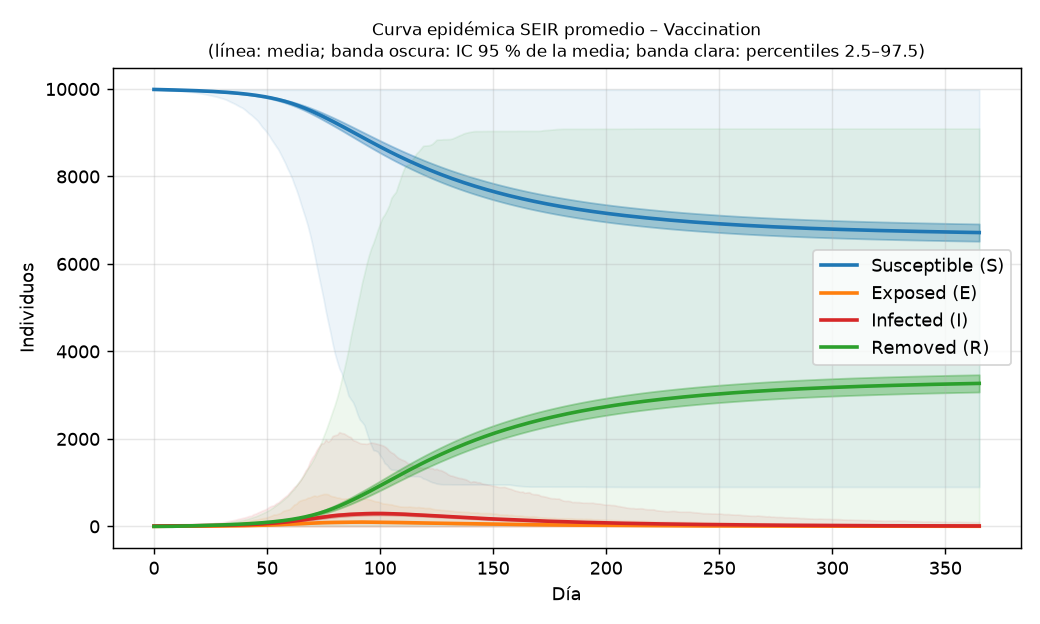
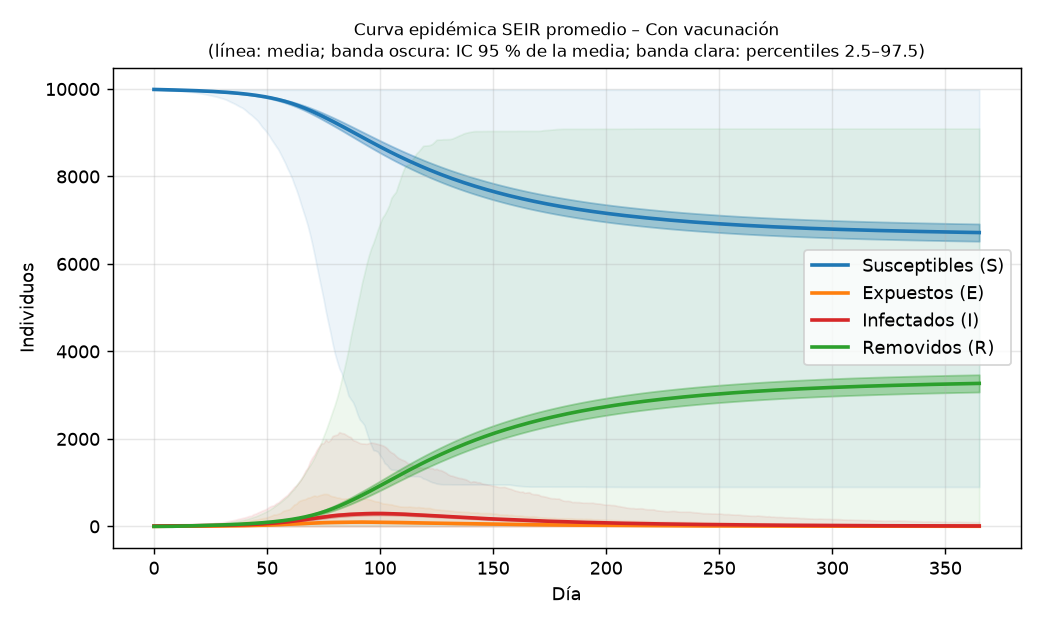
feat(punto4): Implement punto3 tests into punto4 validation_generator, and fix memoria_pico data in windows

Changed region(s): [[0.8308, 0.3958, 0.9538, 0.5785], [0.3385, 0.0304, 0.7385, 0.0609], [0.7692, 0.3958, 0.8, 0.5785]]

diff --git a/punto4_episim/analisis_episim.py b/punto4_episim/analisis_episim.py
@@ -1,11 +1,4 @@
 import os
-import sys
-
-BASE = os.path.dirname(os.path.abspath(__file__))
-if __package__ in (None, ""):
-    script_dir = os.path.abspath(sys.path[0])
-    if script_dir == BASE:
-        sys.path.pop(0)
 
 import matplotlib
 matplotlib.use("Agg")
@@ -13,16 +6,18 @@ import matplotlib.pyplot as plt
 import numpy as np
 import pandas as pd
 
+BASE = os.path.dirname(os.path.abspath(__file__))
 RES = os.path.join(BASE, "resultados")
 GRA = os.path.join(BASE, "graficos")
 os.makedirs(GRA, exist_ok=True)
 
-ROT = {"sin_vacunacion": "No vaccination", "con_vacunacion": "Vaccination",
-    "sin_vacunacion_homogenea": "No vaccination (homogeneous mixing)",
-    "con_vacunacion_homogenea": "Vaccination (homogeneous mixing)"}
+N = 10000
+ROT = {"sin_vacunacion": "Sin vacunación", "con_vacunacion": "Con vacunación",
+    "sin_vacunacion_homogenea": "Sin vacunación (mezcla homogénea)",
+    "con_vacunacion_homogenea": "Con vacunación (mezcla homogénea)"}
 COL = {"S": "#1f77b4", "E": "#ff7f0e", "I": "#d62728", "R": "#2ca02c"}
-NOM = {"S": "Susceptible (S)", "E": "Exposed (E)", "I": "Infected (I)",
-    "R": "Removed (R)"}
+NOM = {"S": "Susceptibles (S)", "E": "Expuestos (E)", "I": "Infectados (I)",
+    "R": "Removidos (R)"}
 plt.rcParams.update({"font.size": 10, "axes.grid": True, "grid.alpha": 0.3,
                      "figure.dpi": 130})
 
@@ -31,16 +26,6 @@ def load_data(nombre):
     resumen = pd.read_csv(os.path.join(RES, f"{nombre}_resumen.csv"))
     series = pd.read_csv(os.path.join(RES, f"{nombre}_series.csv"))
     return resumen, series
-
-
-def population_size(resumen):
-    """Obtiene la población de los resultados, sin depender de la configuración."""
-    tasa_ataque = pd.to_numeric(resumen["tasa_ataque"], errors="coerce")
-    total_infectados = pd.to_numeric(resumen["total_infectados"], errors="coerce")
-    poblaciones = (total_infectados / tasa_ataque).replace([np.inf, -np.inf], np.nan).dropna()
-    if poblaciones.empty:
-        raise ValueError("No se pudo inferir la población desde los resultados.")
-    return int(round(poblaciones.median()))
 
 
 def confidence_bands(series, col):
@@ -88,7 +73,7 @@ def plot_histograms():
             if datos.std() == 0:   # distribucion degenerada (p. ej. 100 % de la poblacion infectada)
                 axs[fila, j].bar([datos.iloc[0]], [len(datos)], width=1, color="#4c72b0")
                 axs[fila, j].set_xlim(datos.iloc[0] - 5, datos.iloc[0] + 5)
-                axs[fila, j].text(0.5, 0.5, f"valor constante\nen las {len(datos):,} réplicas",
+                axs[fila, j].text(0.5, 0.5, "valor constante\nen las 1.000 réplicas",
                                   transform=axs[fila, j].transAxes, ha="center", fontsize=8)
             else:
                 axs[fila, j].hist(datos, bins=30, color="#4c72b0", edgecolor="white")
@@ -127,7 +112,6 @@ def plot_comparison():
 def plot_tornado():
     s = pd.read_csv(os.path.join(RES, "sensibilidad.csv"))
     base = s[s["variable"] == "base"].iloc[0]
-    n = population_size(load_data("con_vacunacion")[0])
     etiquetas = {"beta": "β (tasa de contacto)", "probabilidad_transmision": "p (prob. transmisión)",
                  "tasa_vacunacion": "Tasa de vacunación", "efectividad_vacuna": "Efectividad vacuna"}
     filas = []
@@ -136,7 +120,7 @@ def plot_tornado():
         hi = s[(s.variable == v) & (s.nivel == "max")].iloc[0]
         filas.append((et, lo, hi))
     fig, axs = plt.subplots(1, 2, figsize=(13, 4.4))
-    for ax, col, tit, esc in ((axs[0], "media_total_infectados", "Total de infectados (% de N)", 100 / n),
+    for ax, col, tit, esc in ((axs[0], "media_total_infectados", "Total de infectados (% de N)", 100 / N),
                               (axs[1], "media_pico_I", "Pico de infectados activos", 1)):
         filas_o = sorted(filas, key=lambda f: abs(f[2][col] - f[1][col]))
         for k, (et, lo, hi) in enumerate(filas_o):
@@ -157,18 +141,16 @@ def plot_correlations():
     resumen, _ = load_data("con_vacunacion")
     cols = ["beta", "p", "tasa_vacunacion", "efectividad", "letalidad"]
     etq = ["β", "p", "Tasa vacunación", "Efectividad", "Letalidad"]
-    resumen = resumen.apply(pd.to_numeric, errors="coerce")
     fig, axs = plt.subplots(1, 2, figsize=(11, 4))
     tablas = {}
     for ax, out, tit in ((axs[0], "total_infectados", "Total de infectados"),
                          (axs[1], "pico_I", "Pico de infectados")):
-        ranked = resumen[cols + [out]].rank(method="average")
-        rho = [ranked[c].corr(ranked[out]) for c in cols]
+        rho = [resumen[c].rank().corr(resumen[out].rank()) for c in cols]
         tablas[out] = rho
         colores = ["#4c72b0" if r >= 0 else "#c44e52" for r in rho]
         ax.bar(etq, rho, color=colores)
         ax.axhline(0, color="k", lw=0.8)
-        ax.set_ylim(-1, 1); ax.set_title(f"Spearman vs {tit}\n(escenario con vacunación)")
+        ax.set_ylim(-1, 1); ax.set_title(f"Spearman frente a {tit}\n(escenario con vacunación)")
         ax.tick_params(axis="x", rotation=20)
         for i, r in enumerate(rho):
             ax.text(i, r + (0.04 if r >= 0 else -0.09), f"{r:.2f}", ha="center", fontsize=9)
@@ -186,8 +168,7 @@ def plot_homogeneous_comparison():
     for ax, (a, b) in zip(axs, pares):
         for nombre, color in ((a, "#4c72b0"), (b, "#dd8452")):
             resumen, _ = load_data(nombre)
-            n = population_size(resumen)
-            ax.hist(resumen["total_infectados"] / n * 100, bins=30, alpha=0.65,
+            ax.hist(resumen["total_infectados"] / N * 100, bins=30, alpha=0.65,
                     color=color, label=ROT[nombre])
         ax.set_xlabel("Total de infectados (% de la población)")
         ax.set_ylabel("Frecuencia"); ax.legend(fontsize=8)
@@ -213,9 +194,9 @@ def build_statistics_table():
                           "IC95_inf": d.mean() - err, "IC95_sup": d.mean() + err,
                           "min": d.min(), "p25": d.quantile(.25), "mediana": d.median(),
                           "p75": d.quantile(.75), "max": d.max()})
-        brote = (pd.to_numeric(resumen["tasa_ataque"], errors="coerce") >= 0.05).mean() * 100
+        brote = (resumen["tasa_ataque"] >= 0.05).mean() * 100
         sin_control = pd.to_numeric(resumen["dia_control"], errors="coerce").isna().mean() * 100
-        filas.append({"escenario": nombre, "variable": "% réplicas con brote mayor (>=5 % de N)",
+        filas.append({"escenario": nombre, "variable": "% réplicas con brote mayor (≥5 % de N)",
                       "n": n, "media": brote})
         filas.append({"escenario": nombre, "variable": "% réplicas sin control en 365 días",
                       "n": n, "media": sin_control})

diff --git a/punto4_episim/execute_episim.py b/punto4_episim/execute_episim.py
@@ -4,8 +4,10 @@
 # =====================================================================
 import argparse
 import csv
+import ctypes
 import os
 import sys
+import tracemalloc
 import time
 
 try:
@@ -16,6 +18,7 @@ except ModuleNotFoundError:
 from .random import PseudorandomGenerator
 from .config import read_config
 from .runner import run_scenario
+from punto3_generadores_pseudoaleatorios import pruebas
 
 BASE = os.path.dirname(os.path.abspath(__file__))
 CONFIG = os.path.join(BASE, "configuracion")
@@ -28,11 +31,44 @@ ESCENARIOS = {
     "con_vacunacion_homogenea": "config_con_vacunacion_homogenea.csv",
 }
 
+class _ProcessMemoryCounters(ctypes.Structure):
+    _fields_ = [
+        ("cb", ctypes.c_ulong),
+        ("page_fault_count", ctypes.c_ulong),
+        ("memory_values", ctypes.c_size_t * 8),
+    ]
+
+def _windows_peak_memory_mb() -> float:
+    """Devuelve el pico de memoria residente del proceso en Windows."""
+    counters = _ProcessMemoryCounters()
+    counters.cb = ctypes.sizeof(counters)
+    get_process = ctypes.windll.kernel32.GetCurrentProcess
+    get_process.restype = ctypes.c_void_p
+    get_memory_info = ctypes.windll.psapi.GetProcessMemoryInfo
+    get_memory_info.argtypes = (
+        ctypes.c_void_p,
+        ctypes.POINTER(_ProcessMemoryCounters),
+        ctypes.c_ulong,
+    )
+    get_memory_info.restype = ctypes.c_bool
+    if not get_memory_info(get_process(),
+                           ctypes.byref(counters), counters.cb):
+        raise ctypes.WinError()
+
+    return counters.memory_values[0] / (1024.0 ** 2)
+
 def peak_memory_mb() -> float:
     """Devuelve la memoria máxima aproximada del proceso en MB."""
-    if resource is not None:
-        return resource.getrusage(resource.RUSAGE_SELF).ru_maxrss / 1024.0
-    return 0.0
+    if sys.platform == "win32":
+        return _windows_peak_memory_mb()
+    elif resource is not None:
+        peak = resource.getrusage(resource.RUSAGE_SELF).ru_maxrss
+        return peak / (1024.0 ** 2) if sys.platform == "darwin" else peak / 1024.0
+    else:
+        if not tracemalloc.is_tracing():
+            tracemalloc.start()
+        _, peak_bytes = tracemalloc.get_traced_memory()
+        return peak_bytes / (1024.0 ** 2)
 
 def save_summary(name: str, summaries: list[dict]) -> None:
     """Guarda el resumen de cada réplica."""
@@ -54,35 +90,32 @@ def save_series(name: str, series) -> None:
             for row in serie:
                 w.writerow((r,) + row)
 
-def validate_generator(seed: int,n: int = 100_000,bins: int = 10,) -> dict:
-    """Chequeo rapido del flujo U(0,1): media, varianza y chi-cuadrado."""
+def validate_generator(
+    seed: int,
+    n: int = 100_000,
+    bins: int = 10,
+) -> list[dict]:
+    """Valida el generador con las pruebas del punto 3."""
     gen = PseudorandomGenerator(seed)
-    xs = [gen.next() for _ in range(n)]
-    media = sum(xs) / n
-    var = sum((x - media) ** 2 for x in xs) / (n - 1)
-    observed = [0] * bins
-    for x in xs: observed[int(x * bins)] += 1
-
-    expected = n / bins
-    chi2 = sum(
-        (observed_count - expected) ** 2 / expected
-        for observed_count in observed
+    numbers = [gen.next() for _ in range(n)]
+    tests = (
+        pruebas.prueba_de_medias(numbers),
+        pruebas.prueba_de_varianza(numbers),
+        pruebas.prueba_chi_cuadrado(numbers, bins),
+        pruebas.prueba_kolmogorov_smirnov(numbers, bins),
+        pruebas.prueba_de_poker(numbers),
     )
-    
-    critical_value = 16.919
-    return {
+    return [{
         "n": n,
-        "media": media,
-        "media_teorica": 0.5,
-        "varianza": var,
-        "varianza_teorica": 1 / 12,
-        "chi2": chi2,
-        "chi2_critico_0.05_9gl": critical_value,
-        "pasa_chi2": int(chi2 < critical_value),
-    }
+        "prueba": result["prueba"],
+        "estadistico": result["estadistico"],
+        "valor_critico": result["valor_critico"],
+        "pasa": int(result["pasa"]),
+        "avisos": " | ".join(result["avisos"]),
+    } for result in tests]
     
-def save_generator_validation(seed: int) -> dict:
-    """Ejecuta y guarda la validación del generador."""
+def save_generator_validation(seed: int) -> list[dict]:
+    """Ejecuta y guarda los resultados de la validación del generador."""
     result = validate_generator(seed)
 
     with open(
@@ -91,9 +124,9 @@ def save_generator_validation(seed: int) -> dict:
         newline="",
         encoding="utf-8",
     ) as f:
-        writer = csv.DictWriter(f, fieldnames=list(result.keys()))
+        writer = csv.DictWriter(f, fieldnames=list(result[0].keys()))
         writer.writeheader()
-        writer.writerow(result)
+        writer.writerows(result)
 
     return result
 

diff --git a/punto4_episim/README.md b/punto4_episim/README.md
@@ -10,8 +10,7 @@ generar resultados.
 
 - Python 3.10 o superior.
 - El paquete del punto 3 debe estar disponible desde la raíz del repositorio.
-- El análisis (`analisis_episim.py`) usa `numpy`, `pandas` y `matplotlib`. No requiere
-  `scipy`: la correlación de Spearman se calcula directamente sobre los rangos.
+- El análisis (`analisis_episim.py`) usa `numpy`, `pandas` y `matplotlib`.
 
 ```bash
 python -m pip install numpy pandas matplotlib
@@ -23,8 +22,8 @@ python -m pip install numpy pandas matplotlib
 |---|---|
 | Lenguaje | Python 3.14.0 (numpy, pandas, matplotlib 3.10.8) |
 | Sistema operativo | Windows 11 Pro 64 bits (versión 10.0.26200) |
-| Procesador | AMD Ryzen 7 5800XT, 8 núcleos y 16 hilos |
-| Memoria RAM | 16 GB |
+| Procesador | AMD Ryzen 5 5600X, 6 núcleos y 12 hilos |
+| Memoria RAM | 32 GB |
 
 ## Uso
 
@@ -167,7 +166,7 @@ con vacunación 3282.24.
 | `<escenario>_series.csv` | una fila por réplica y día: S, E, I, R y F (fallecidos acumulados, incluidos en R) |
 | `sensibilidad.csv` | caso base y cada parámetro en su mínimo y su máximo |
 | `tiempos.csv` | segundos por escenario y por réplica |
-| `validacion_generador.csv` | media, varianza y chi-cuadrado de 100.000 números del generador |
+| `validacion_generador.csv` resultados de medias, varianza, chi-cuadrado, Kolmogorov-Smirnov y póker sobre 100.000 números |
 | `estadisticas_descriptivas.csv` | media, desviación, IC 95 %, mínimo, cuartiles y máximo por escenario (lo crea el análisis) |
 | `correlaciones_spearman.csv` | correlación de cada parámetro con el total de infectados y con el pico (lo crea el análisis, sin `scipy`) |
 
@@ -380,12 +379,11 @@ percentiles 2.5 y 97.5 de las réplicas, que describen la variación entre répl
 
 ### Limitaciones de la implementación
 
-- `memoria_pico_MB` en `tiempos.csv` vale 0.0 en Windows, porque el módulo `resource`
-  solo existe en Linux.
+- En Windows, `memoria_pico_MB` usa el working set máximo del proceso mediante la API
+  nativa de Windows. En sistemas con `resource` se registra el RSS pico del proceso;
+  por ello, las cifras entre ambos métodos no son directamente comparables.
 - Con m par, R puede valer exactamente 1.0 cuando X = m − 1; el motor no protege los
   índices piso(R·n) frente a ese caso. Con la semilla por defecto no se alcanza ese valor.
-- `validate_generator` es una comprobación rápida del generador. Las pruebas completas
-  del generador se mantienen en `punto3_generadores_pseudoaleatorios`.
 
 ### Posibles mejoras
 
